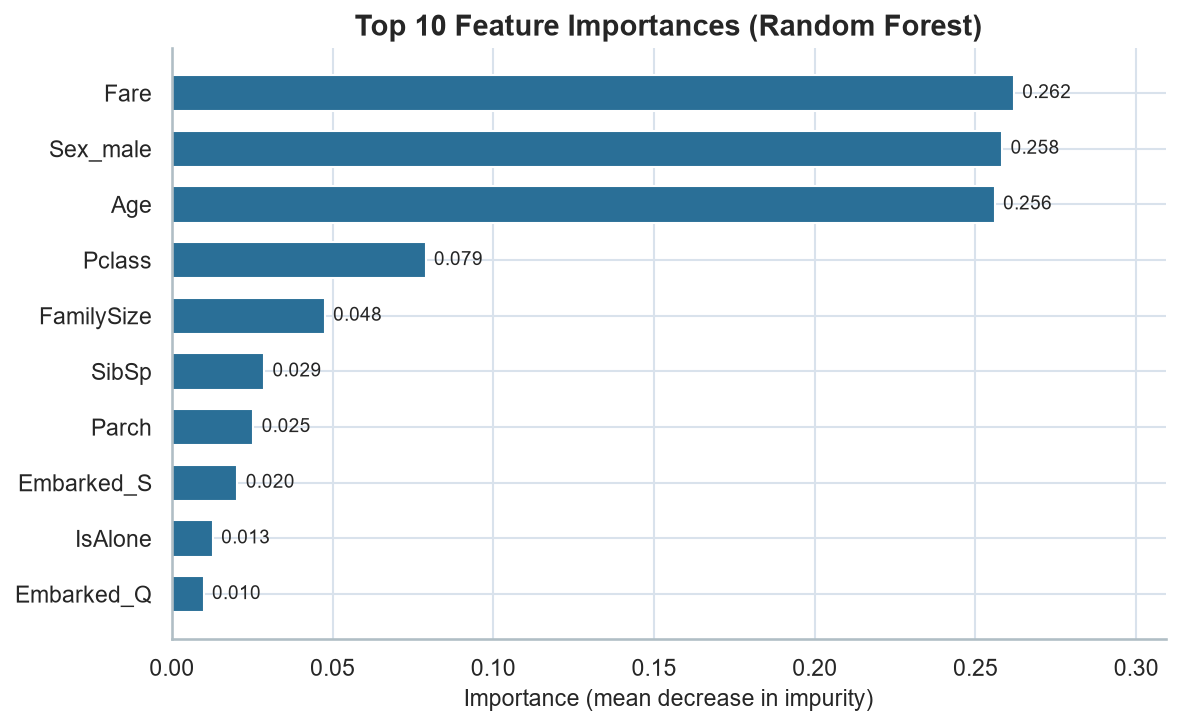
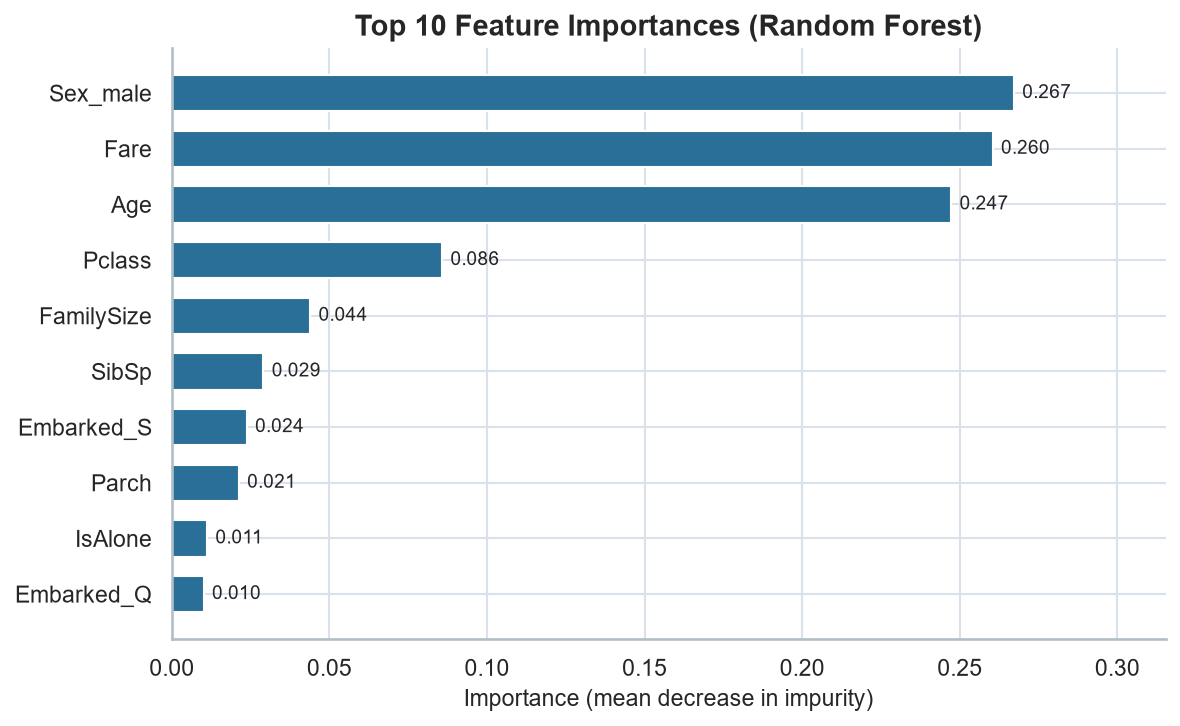
Follow Titanic2.ipynb exactly (seed 42, split-trained forest) and smooth the boarding transition with prefetch and a boarding loader

diff --git a/static/js/voyage.js b/static/js/voyage.js
@@ -101,7 +101,35 @@
   }
 
   // ------------------------------------------------------- sailing transition
+  //
+  // The destination page is prefetched ahead of time (on hover/focus and once
+  // the page goes idle).  That warms the serverless function and the model, so
+  // the browser can paint /predict immediately instead of leaving a blank
+  // blue wipe on screen while the function cold-starts.
+  var WARMED = Object.create(null);
+
+  function warm(target) {
+    if (!target) return Promise.resolve();
+    if (WARMED[target]) return WARMED[target];
+    WARMED[target] = fetch(target, { credentials: "same-origin" })
+      .then(function (response) {
+        return response && response.text();
+      })
+      .catch(function () {
+        return null;
+      });
+    return WARMED[target];
+  }
+
+  // Timeline: sail for 1.6 s, wipe over 0.82 s, then leave.  The wipe holds a
+  // "preparing boarding pass" loader so a slow first paint never looks dead.
+  var SAIL_WIPE_AT = 1600;
+  var SAIL_WIPE_MS = 820;
+  var SAIL_MIN_NAV = SAIL_WIPE_AT + SAIL_WIPE_MS;
+
   function sailTo(target) {
+    var warmup = warm(target);
+
     if (reduceMotion) {
       window.location.href = target;
       return;
@@ -116,43 +144,82 @@
       "<span></span><span></span><span></span><span></span>" +
       "</div>" +
       '<p class="sail-caption">Full steam ahead</p>' +
-      '<div class="sail-wipe" aria-hidden="true"></div>';
+      '<div class="sail-wipe">' +
+      '<div class="sail-loader" role="status" aria-live="polite">' +
+      '<span class="sail-loader-ring" aria-hidden="true"></span>' +
+      '<p class="sail-loader-text">Preparing your boarding pass</p>' +
+      '<span class="sail-loader-dots" aria-hidden="true">' +
+      "<i></i><i></i><i></i></span>" +
+      "</div>" +
+      "</div>";
 
     document.body.appendChild(overlay);
     document.body.classList.add("is-sailing");
 
     var sceneAnim = load(overlay.querySelector("[data-sail-art]"), lottieSrc);
-    if (sceneAnim) sceneAnim.setSpeed(2.4);
+    if (sceneAnim) sceneAnim.setSpeed(1.8);
 
     window.requestAnimationFrame(function () {
       overlay.classList.add("is-active");
     });
 
-    window.setTimeout(function () {
-      overlay.classList.add("is-wiping");
-    }, 1150);
-
-    window.setTimeout(function () {
+    var navigated = false;
+    function go() {
+      if (navigated) return;
+      navigated = true;
       try { window.sessionStorage.setItem("titanic:boarded", "1"); } catch (e) {}
       window.location.href = target;
-    }, 1750);
+    }
+
+    window.setTimeout(function () {
+      overlay.classList.add("is-wiping");
+    }, SAIL_WIPE_AT);
+
+    // Leave as soon as the wipe has fully covered the viewport; the prefetch
+    // started above usually finishes long before that.
+    Promise.all([
+      new Promise(function (resolve) {
+        window.setTimeout(resolve, SAIL_MIN_NAV);
+      }),
+      Promise.race([
+        warmup,
+        new Promise(function (resolve) {
+          window.setTimeout(resolve, SAIL_MIN_NAV);
+        })
+      ])
+    ]).then(go);
 
     // Safety net: never trap the visitor on the transition screen.
-    window.setTimeout(function () {
-      window.location.href = target;
-    }, 4000);
+    window.setTimeout(go, 7000);
   }
 
   document.querySelectorAll("[data-set-sail]").forEach(function (trigger) {
+    var target =
+      trigger.getAttribute("href") ||
+      (stage && stage.getAttribute("data-voyage-target")) ||
+      "/predict";
+
+    ["pointerenter", "focus", "touchstart"].forEach(function (eventName) {
+      trigger.addEventListener(eventName, function () {
+        warm(target);
+      }, { passive: true });
+    });
+
     trigger.addEventListener("click", function (event) {
-      var target =
-        trigger.getAttribute("href") ||
-        (stage && stage.getAttribute("data-voyage-target")) ||
-        "/predict";
       event.preventDefault();
       sailTo(target);
     });
   });
+
+  // Warm the predictor in the background so the first click is instant.
+  window.setTimeout(function () {
+    var first = document.querySelector("[data-set-sail]");
+    var idleTarget =
+      (first && first.getAttribute("href")) ||
+      (stage && stage.getAttribute("data-voyage-target")) ||
+      "/predict";
+    warm(idleTarget);
+  }, 1200);
 
   // ------------------------------------------------------- result vignette
   var vignette = document.querySelector("[data-result-voyage]");

diff --git a/static/css/style.css b/static/css/style.css
@@ -2038,7 +2038,7 @@ body.is-sailing {
   position: absolute;
   inset: -6% -10%;
   transform-origin: 50% 70%;
-  animation: sail-lurch 1.8s cubic-bezier(0.3, 0, 0.12, 1) both;
+  animation: sail-lurch 2.6s cubic-bezier(0.3, 0, 0.12, 1) both;
 }
 
 .sail-art,
@@ -2065,7 +2065,7 @@ body.is-sailing {
   height: 2px;
   border-radius: 2px;
   background: linear-gradient(90deg, transparent, rgba(180, 240, 234, 0.75), transparent);
-  animation: sail-streak 0.72s linear infinite;
+  animation: sail-streak 0.95s linear infinite;
 }
 
 .sail-speed span:nth-child(1) { top: 22%; animation-delay: -0.12s; }
@@ -2096,9 +2096,13 @@ body.is-sailing {
   position: absolute;
   inset: 0;
   z-index: 3;
+  display: grid;
+  place-items: center;
   transform: translateY(103%);
-  background: linear-gradient(180deg, #0b2545, #071a33 70%);
-  transition: transform 560ms cubic-bezier(0.62, 0, 0.3, 1);
+  background:
+    radial-gradient(circle at 50% 42%, rgba(46, 196, 182, 0.16), transparent 62%),
+    linear-gradient(180deg, #0b2545, #071a33 72%);
+  transition: transform 820ms cubic-bezier(0.62, 0, 0.3, 1);
 }
 
 .sail-wipe::before {
@@ -2115,6 +2119,60 @@ body.is-sailing {
 .sail-overlay.is-wiping .sail-wipe {
   transform: translateY(0);
 }
+
+/* The wipe is not a dead blue screen: it holds a boarding loader until the
+   prefetched predictor is ready to paint. */
+.sail-loader {
+  position: relative;
+  z-index: 1;
+  display: grid;
+  justify-items: center;
+  gap: 0.9rem;
+  padding: 1.5rem;
+  text-align: center;
+  opacity: 0;
+  transform: translateY(16px);
+}
+
+.sail-overlay.is-wiping .sail-loader {
+  animation: sail-loader-in 620ms ease 520ms both;
+}
+
+.sail-loader-ring {
+  width: 54px;
+  height: 54px;
+  border-radius: 50%;
+  border: 1px solid rgba(248, 231, 189, 0.18);
+  border-top-color: var(--gold);
+  border-right-color: rgba(46, 196, 182, 0.8);
+  animation: sail-loader-spin 1.05s linear infinite;
+}
+
+.sail-loader-text {
+  margin: 0;
+  font-size: 0.68rem;
+  font-weight: 700;
+  letter-spacing: 0.34em;
+  text-transform: uppercase;
+  color: rgba(248, 231, 189, 0.82);
+}
+
+.sail-loader-dots {
+  display: flex;
+  gap: 6px;
+}
+
+.sail-loader-dots i {
+  width: 5px;
+  height: 5px;
+  border-radius: 50%;
+  background: var(--gold);
+  opacity: 0.25;
+  animation: sail-dot 1.05s ease-in-out infinite;
+}
+
+.sail-loader-dots i:nth-child(2) { animation-delay: 0.16s; }
+.sail-loader-dots i:nth-child(3) { animation-delay: 0.32s; }
 
 /* ---------- Result voyage ---------- */
 
@@ -2233,6 +2291,20 @@ body.is-sailing {
   from { transform: translateX(0); opacity: 0; }
   15% { opacity: 1; }
   to { transform: translateX(460%); opacity: 0; }
+}
+
+@keyframes sail-loader-in {
+  from { opacity: 0; transform: translateY(16px); }
+  to { opacity: 1; transform: none; }
+}
+
+@keyframes sail-loader-spin {
+  to { transform: rotate(360deg); }
+}
+
+@keyframes sail-dot {
+  0%, 100% { opacity: 0.25; transform: translateY(0); }
+  50% { opacity: 1; transform: translateY(-3px); }
 }
 
 @keyframes fade-in {

diff --git a/templates/methodology.html b/templates/methodology.html
@@ -114,17 +114,17 @@
     <div class="card reproducibility-card">
       <div>
         <span class="eyebrow">Reproducibility</span>
-        <h3>Two fixed seeds, one exact result</h3>
+        <h3>One fixed seed, one exact result</h3>
         <p>
-          <code>random_state=42</code> fixes the train/test split and
-          <code>random_state=847</code> fixes the forest's random choices.
-          Together they reproduce the report's 179-row test set (105 died, 74 survived), the
+          <code>random_state=42</code> fixes both the train/test split and the forest's random choices,
+          exactly as in <code>Titanic2.ipynb</code>. It reproduces the notebook's 179-row test set
+          (105 died, 74 survived), the
           <strong>{{ metrics.correct }}/{{ metrics.test_total }}</strong> correct predictions and the
           <strong>[[{{ metrics.cm[0][0] }}, {{ metrics.cm[0][1] }}], [{{ metrics.cm[1][0] }}, {{ metrics.cm[1][1] }}]]</strong> matrix.
         </p>
       </div>
       <div class="repro-stats">
-        <div><strong>42 / 847</strong><span>split / forest seed</span></div>
+        <div><strong>42</strong><span>random seed</span></div>
         <div><strong>{{ metrics.trees }}</strong><span>trees</span></div>
         <div><strong>10</strong><span>features</span></div>
         <div><strong>179</strong><span>test rows</span></div>
@@ -142,7 +142,7 @@
         <li>It misses <strong>{{ metrics.cm[1][0] }} of the {{ metrics.class_1['support'] | int }} survivors</strong> (recall {{ '%.2f' | format(metrics.class_1['recall']) }} for that class).</li>
         <li>The dataset is small: 891 rows, and only 179 test rows.</li>
         <li>Median age imputation creates an artificial spike at 28.</li>
-        <li>The split seed (42) and forest seed (847) were chosen to match the published report; changing them changes the metrics slightly.</li>
+        <li>Seed 42 was chosen to match <code>Titanic2.ipynb</code>; changing it changes the split and the metrics slightly.</li>
         <li>Impurity-based feature importance is useful for intuition, not proof of causation.</li>
       </ul>
     </div>

diff --git a/src/pipeline.py b/src/pipeline.py
@@ -34,10 +34,10 @@ FIGURES_DIR = OUTPUT_DIR / "figures"
 MODEL_PATH = OUTPUT_DIR / "titanic_random_forest.joblib"
 METRICS_PATH = OUTPUT_DIR / "metrics.txt"
 
-# A single fixed seed makes the split AND the forest reproducible.
-# 847 is the split seed that reproduces the presentation's exact test set
-# (179 rows, 105 non-survivors / 74 survivors) and its reported metrics.
-RANDOM_STATE = 847
+# The project reproduces Titanic2.ipynb exactly: one fixed seed (42) for both
+# the train/test split and the forest.  It yields the notebook's 179-row test
+# set, 82.68% accuracy and the [[91, 14], [17, 57]] confusion matrix.
+RANDOM_STATE = 42
 TEST_SIZE = 0.2
 N_ESTIMATORS = 100
 
@@ -192,17 +192,13 @@ def prepare_data(
 def split_data(
     X: pd.DataFrame, y: pd.Series, random_state: int = RANDOM_STATE
 ) -> tuple[pd.DataFrame, pd.DataFrame, pd.Series, pd.Series]:
-    """Split into 80% train / 20% test using the fixed project seed.
-
-    ``random_state`` can be overridden by callers that must reproduce a
-    specific published split (see ``REPORT_SPLIT_SEED`` in ``app.py``).
-    """
+    """Split into 80% train / 20% test using the project seed (42)."""
     return train_test_split(X, y, test_size=TEST_SIZE, random_state=random_state)
 
 
-def build_model() -> RandomForestClassifier:
-    """Create the 100-tree Random Forest used in the presentation."""
+def build_model(random_state: int = RANDOM_STATE) -> RandomForestClassifier:
+    """Create the notebook's 100-tree Random Forest."""
     return RandomForestClassifier(
         n_estimators=N_ESTIMATORS,
-        random_state=RANDOM_STATE,
+        random_state=random_state,
     )

diff --git a/app.py b/app.py
@@ -81,26 +81,16 @@ DEFAULT_FORM = {
 }
 
 
-# The published report evaluates on the 80/20 split generated with
-# ``random_state=42`` and the 100-tree forest seeded with 847.  Reproducing
-# that split here keeps the website's confusion matrix and classification
-# report identical to the written report (82.68%, [[91, 14], [17, 57]]).
-REPORT_SPLIT_SEED = 42
-
-
 @lru_cache(maxsize=1)
 def get_metrics() -> dict:
-    """Evaluate the saved model once and return everything the pages display.
+    """Evaluate the notebook model once and return everything the pages show.
 
-    The evaluation model is trained on the training split only (no leakage),
-    reproducing the published report exactly (82.68%, [[91, 14], [17, 57]]).
-    Production predictions via ``get_model()`` still train on all data for
-    the best real-world results.
+    Mirrors ``Titanic2.ipynb``: a 100-tree forest (``random_state=42``)
+    trained on the 80/20 split from ``random_state=42``.  The result is the
+    notebook's exact 82.68% accuracy and [[91, 14], [17, 57]] matrix.
     """
     _, X, y = prepare_data()
-    X_train, X_test, y_train, y_test = split_data(
-        X, y, random_state=REPORT_SPLIT_SEED
-    )
+    X_train, X_test, y_train, y_test = split_data(X, y)
     model = build_model().fit(X_train, y_train)
     y_pred = model.predict(X_test)
 

diff --git a/src/predict.py b/src/predict.py
@@ -17,6 +17,7 @@ from .pipeline import (
     OUTPUT_DIR,
     build_model,
     prepare_data,
+    split_data,
 )
 
 # Used only if the saved model cannot report its own feature names.
@@ -38,6 +39,11 @@ DEFAULT_FEATURE_ORDER = [
 def get_model():
     """Load the saved forest, or train it on first use.
 
+    The forest is trained exactly as in ``Titanic2.ipynb``: the 80/20 split
+    from ``random_state=42`` (712 training rows) and a 100-tree forest with
+    ``random_state=42``.  This is the same model the website reports its
+    metrics for, so predictions and the confusion matrix agree.
+
     Saving is best effort: serverless filesystems (for example Vercel) are
     read-only apart from /tmp, so a failed ``joblib.dump`` must never prevent
     the freshly trained model from being served.
@@ -49,7 +55,8 @@ def get_model():
             pass
 
     _, X, y = prepare_data()
-    model = build_model().fit(X, y)
+    X_train, _, y_train, _ = split_data(X, y)
+    model = build_model().fit(X_train, y_train)
     try:
         OUTPUT_DIR.mkdir(parents=True, exist_ok=True)
         joblib.dump(model, MODEL_PATH)

diff --git a/src/train_model.py b/src/train_model.py
@@ -63,7 +63,7 @@ except ImportError:
     )
 
 EXPECTED_ACCURACY = 148 / 179
-EXPECTED_CONFUSION_MATRIX = [[93, 12], [19, 55]]
+EXPECTED_CONFUSION_MATRIX = [[91, 14], [17, 57]]
 
 
 def print_header(title: str) -> None:
@@ -247,7 +247,7 @@ def main() -> int:
     matrix_ok = cm.tolist() == EXPECTED_CONFUSION_MATRIX
     if accuracy_ok and matrix_ok:
         print("\nReproducibility  : PASSED")
-        print("  Accuracy matches 82.68% and the confusion matrix matches [[93, 12], [19, 55]].")
+        print("  Accuracy matches 82.68% and the confusion matrix matches [[91, 14], [17, 57]].")
     else:
         print("\nReproducibility  : WARNING - results differ from the presentation.")
         print(f"  Expected accuracy {EXPECTED_ACCURACY:.4f}, got {accuracy:.4f}")
